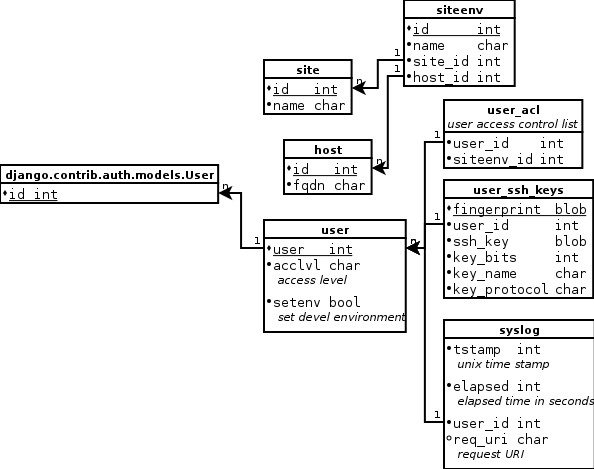
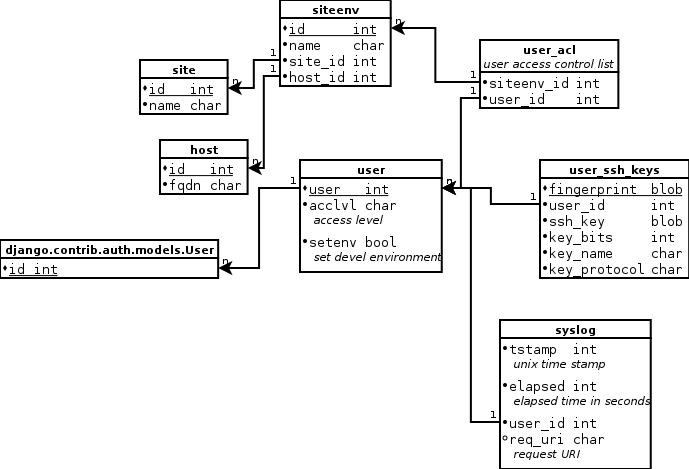
site env db model

Changed region(s): [[0.0, 0.0, 1.0, 1.0], [0.0, 0.5075, 0.3636, 0.597]]

diff --git a/src/tsadmsite/migrations/0003_tsadmsiteenvdb.py b/src/tsadmsite/migrations/0003_tsadmsiteenvdb.py
@@ -1,0 +1,30 @@
+# -*- coding: utf-8 -*-
+# Generated by Django 1.9.2 on 2016-02-05 01:23
+from __future__ import unicode_literals
+
+from django.db import migrations, models
+import django.db.models.deletion
+
+
+class Migration(migrations.Migration):
+
+    dependencies = [
+        ('tsadmhost', '0001_initial'),
+        ('tsadmsite', '0002_auto_20160203_2058'),
+    ]
+
+    operations = [
+        migrations.CreateModel(
+            name='TSAdmSiteEnvDB',
+            fields=[
+                ('id', models.AutoField(auto_created=True, primary_key=True, serialize=False, verbose_name='ID')),
+                ('name', models.CharField(max_length=64, unique=True)),
+                ('host', models.ForeignKey(on_delete=django.db.models.deletion.PROTECT, to='tsadmhost.TSAdmHostDB')),
+                ('site', models.ForeignKey(on_delete=django.db.models.deletion.PROTECT, to='tsadmsite.TSAdmSiteDB')),
+            ],
+            options={
+                'verbose_name_plural': 'SiteEnvs',
+                'verbose_name': 'SiteEnv',
+            },
+        ),
+    ]

diff --git a/src/tsadmsite/models.py b/src/tsadmsite/models.py
@@ -9,3 +9,21 @@ class TSAdmSiteDB(models.Model):
 
     def __str__(self):
         return "Site:"+self.name
+
+class TSAdmSiteEnvDB(models.Model):
+    class Meta:
+        verbose_name = "SiteEnv"
+        verbose_name_plural = "SiteEnvs"
+
+    name = models.CharField(max_length=64, unique=True)
+    site = models.ForeignKey(
+        TSAdmSiteDB,
+        on_delete=models.PROTECT,
+    )
+    host = models.ForeignKey(
+        'tsadmhost.TSAdmHostDB',
+        on_delete=models.PROTECT,
+    )
+
+    def __str__(self):
+        return "SiteEnv:"+self.name

diff --git a/src/tsadmsite/admin.py b/src/tsadmsite/admin.py
@@ -1,7 +1,11 @@
 from django.contrib import admin
-from .models import TSAdmSiteDB
+from .models import TSAdmSiteDB, TSAdmSiteEnvDB
 
 class SiteAdmin(admin.ModelAdmin):
     pass
 
+class SiteEnvAdmin(admin.ModelAdmin):
+    pass
+
 admin.site.register(TSAdmSiteDB, SiteAdmin)
+admin.site.register(TSAdmSiteEnvDB, SiteEnvAdmin)
